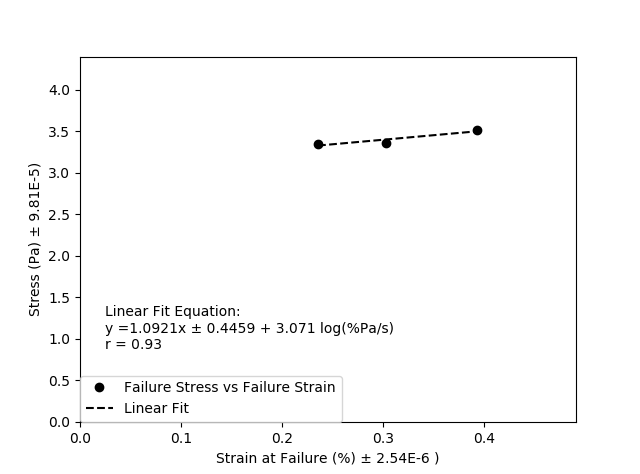
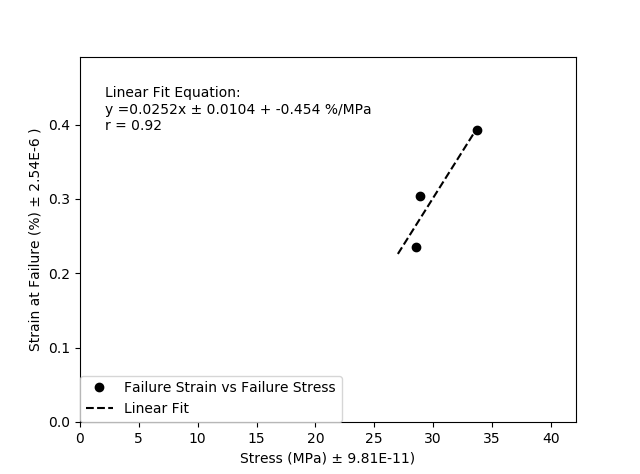
updates

diff --git a/gradients.py b/gradients.py
@@ -152,31 +152,34 @@ def plot_strain_failure(initial_length, final_length, stress):
     for ini, fin in zip(initial_length.values(), final_length.values()):
         failure_strain.append(abs(fin - ini) / ini)
 
-    x_max = amax(failure_strain)
-    y_max = amax(stress)
+    stress = [x / 10 ** 6 for x in stress]
+
+    y_max = amax(failure_strain)
+    x_max = amax(stress)
 
     spacing_x = x_max + x_max / 4
     spacing_y = y_max + y_max / 4
 
-    plt.xlabel("Strain at Failure (%) {0} 2.54E-6 )".format(u"\u00B1"))
-    plt.ylabel("Stress (Pa) {0} 9.81E-5)".format(u"\u00B1"))
+    plt.ylabel("Strain at Failure (%) {0} 2.54E-6 )".format(u"\u00B1"))
+    plt.xlabel("Stress (MPa) {0} 9.81E-11)".format(u"\u00B1"))
 
     plt.axis([0, spacing_x, 0, spacing_y])
 
-    plt.plot(failure_strain, stress, "ko", label="Failure Stress vs Failure Strain")
+    plt.plot(stress, failure_strain, "ko", label="Failure Strain vs Failure Stress")
 
-    (m_value, b_value, r_value, tt, stderr) = stats.linregress(failure_strain, stress)
-    error = error_estimate(failure_strain, stress, m_value)
+    (m_value, b_value, r_value, tt, stderr) = stats.linregress(stress, failure_strain)
+    print(m_value, b_value)
+    error = error_estimate(stress, failure_strain, m_value)
 
-    plt.text(spacing_x * 0.05, spacing_y * 0.2,
-             "Linear Fit Equation: \ny ={0:.4f}x {4} {3:.4f} + {1:.3f} log(%Pa/s) \nr = {2:.2f}".format(
+    plt.text(spacing_x * 0.05, spacing_y * 0.8,
+             "Linear Fit Equation: \ny ={0:.4f}x {4} {3:.4f} + {1:.3f} %/MPa \nr = {2:.2f}".format(
                  m_value,
                  b_value,
                  r_value,
                  error,
                  u"\u00B1"))
 
-    plt.plot(np.array(failure_strain), f(np.array(failure_strain), m_value, b_value), "k--", label="Linear Fit")
+    plt.plot(np.array([27] + stress), f(np.array([27] + stress), m_value, b_value), "k--", label="Linear Fit")
     plt.legend(loc=3, borderaxespad=0.)
 
     plt.show()
